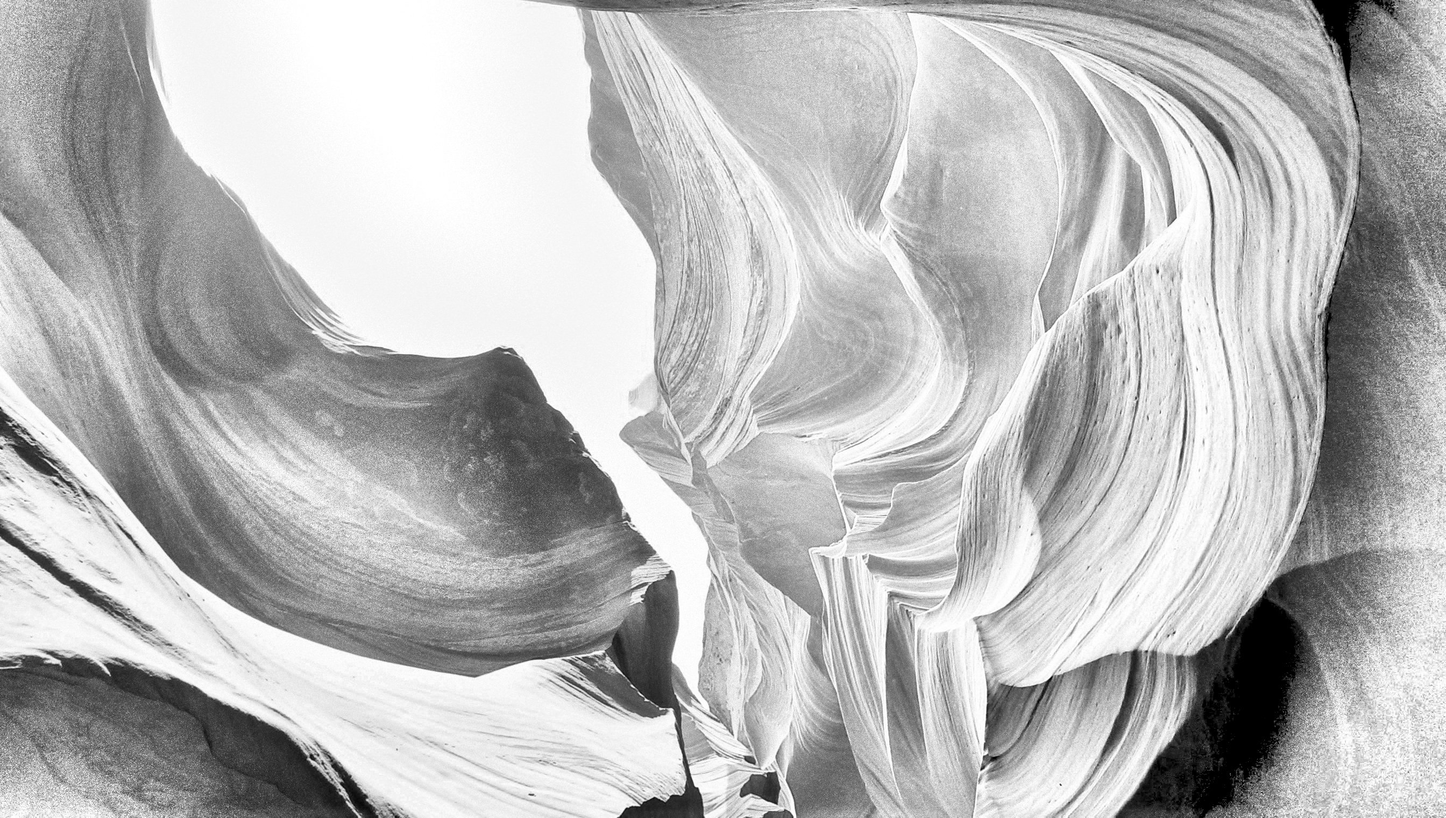
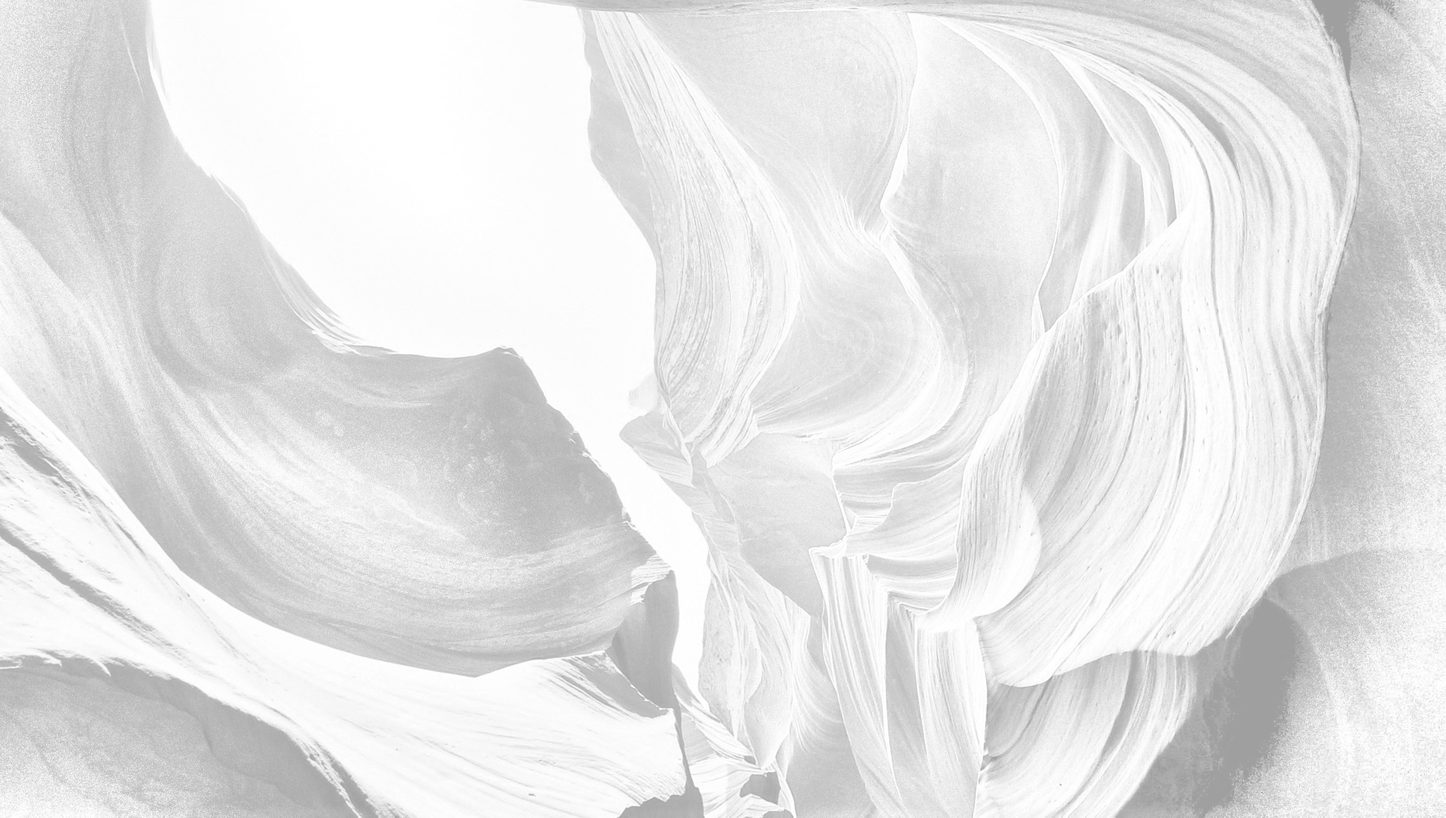
Lighter background

diff --git a/index.html b/index.html
@@ -244,11 +244,11 @@
                 Typically works reliably as the programmer has already put in
                 the hard work by marking up functions and types.
               </p>
-            </aside>
 
-            <p>
-              These are just the most commonly used ones, more tools available.
-            </p>
+              <p>
+                These are just the most commonly used ones, more tools available.
+              </p>
+            </aside>
           </section>
 
           <!-- ## SEMI-AUTOMATIC -->
@@ -283,7 +283,7 @@
             <pre><code data-trim data-noescape data-line-numbers="1-2|3-6|8-12|14-21">
 #[cxx::bridge]
 mod ffi {
-    struct BlobMetadata {
+    struct Metadata {
         size: usize,
         tags: Vec&lt;String&gt;,
     }
@@ -297,9 +297,9 @@ mod ffi {
     unsafe extern "C++" {
         include!("demo/include/blobstore.h");
 
-        type BlobstoreClient;
+        type Client;
 
-        fn new_blobstore_client() -> UniquePtr&lt;BlobstoreClient&gt;;
+        fn new_client() -> UniquePtr&lt;Client&gt;;
         fn put(&self, parts: &mut MultiBuf) -> u64;
     }
 }</code></pre>
@@ -734,10 +734,10 @@ target_link_libraries(cpp-exe PUBLIC rust-lib)</code></pre>
         parallaxBackgroundImage: "background.jpg",
         parallaxBackgroundSize: "5376px 3040px",
       });
-      Reveal.configure({
-        showNotes: "separate-page",
-        pdfSeparateFragments: false,
-      });
+      // Reveal.configure({
+      //   showNotes: "separate-page",
+      //   pdfSeparateFragments: false,
+      // });
     </script>
   </body>
 </html>
